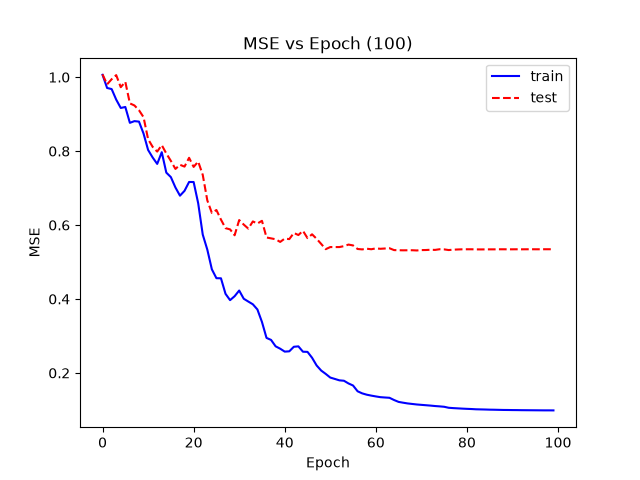
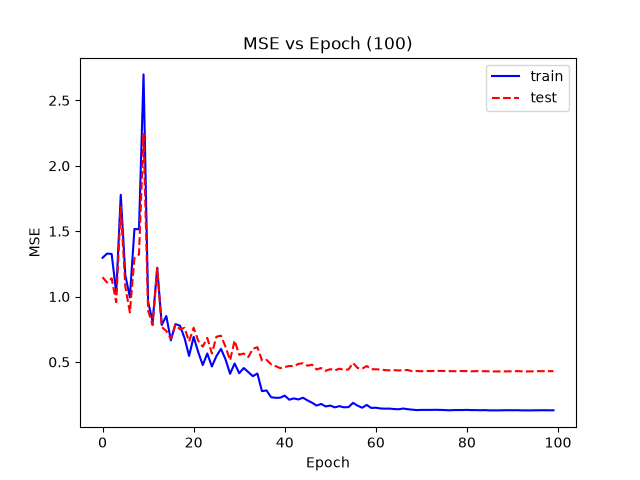
more graphs

diff --git a/code/train_test.py b/code/train_test.py
@@ -14,7 +14,7 @@ collect_data = True
 
 # Split intro 3 datasets: the real training dataset for the supercomputer, and the sample train/test datasets for testing the initial model
 mol_real_train_dataset, mol_split_dataset, sol_real_train_dataset, sol_split_dataset = train_test_split(
-    molecules_list, solvents_list, test_size=0.4, random_state=42
+    molecules_list, solvents_list, test_size=0.6, random_state=42
 )
 
 mol_sample_train_dataset, mol_sample_test_dataset, sol_sample_train_dataset, sol_sample_test_dataset = train_test_split(